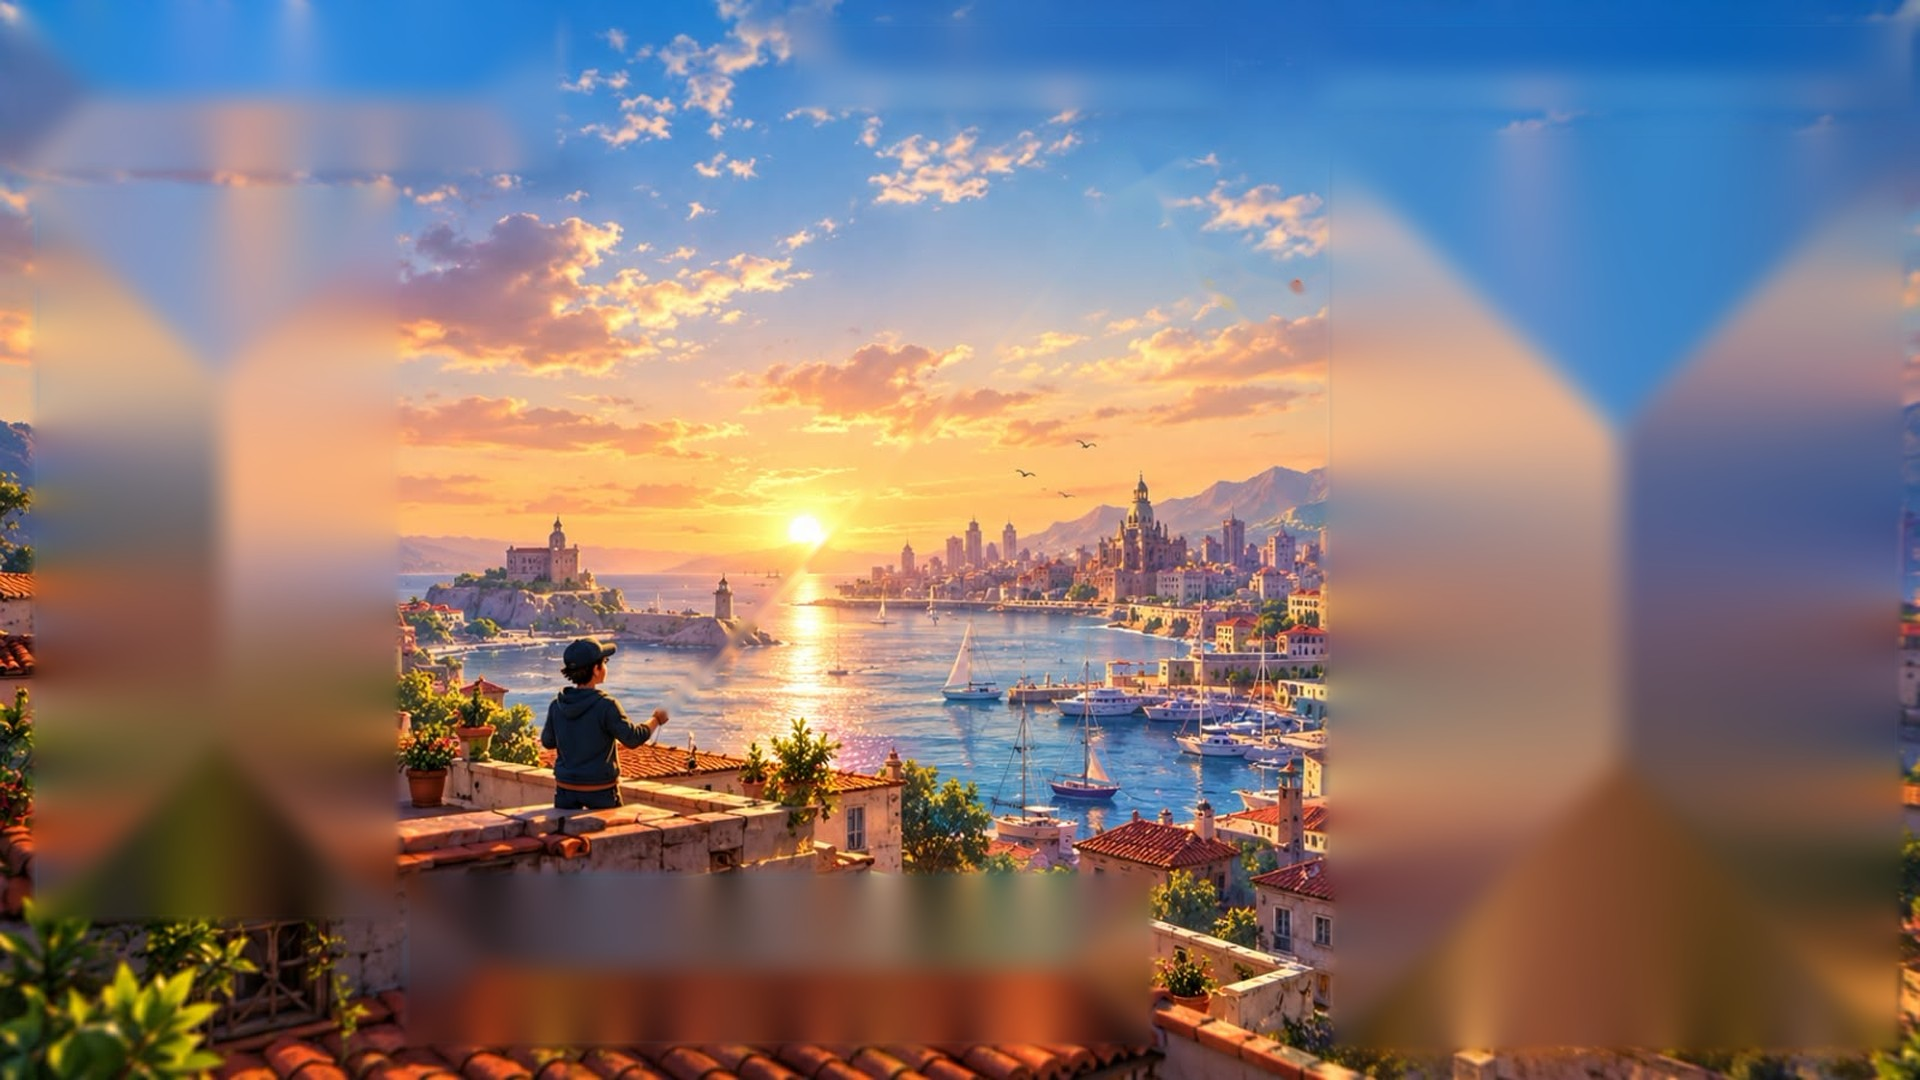
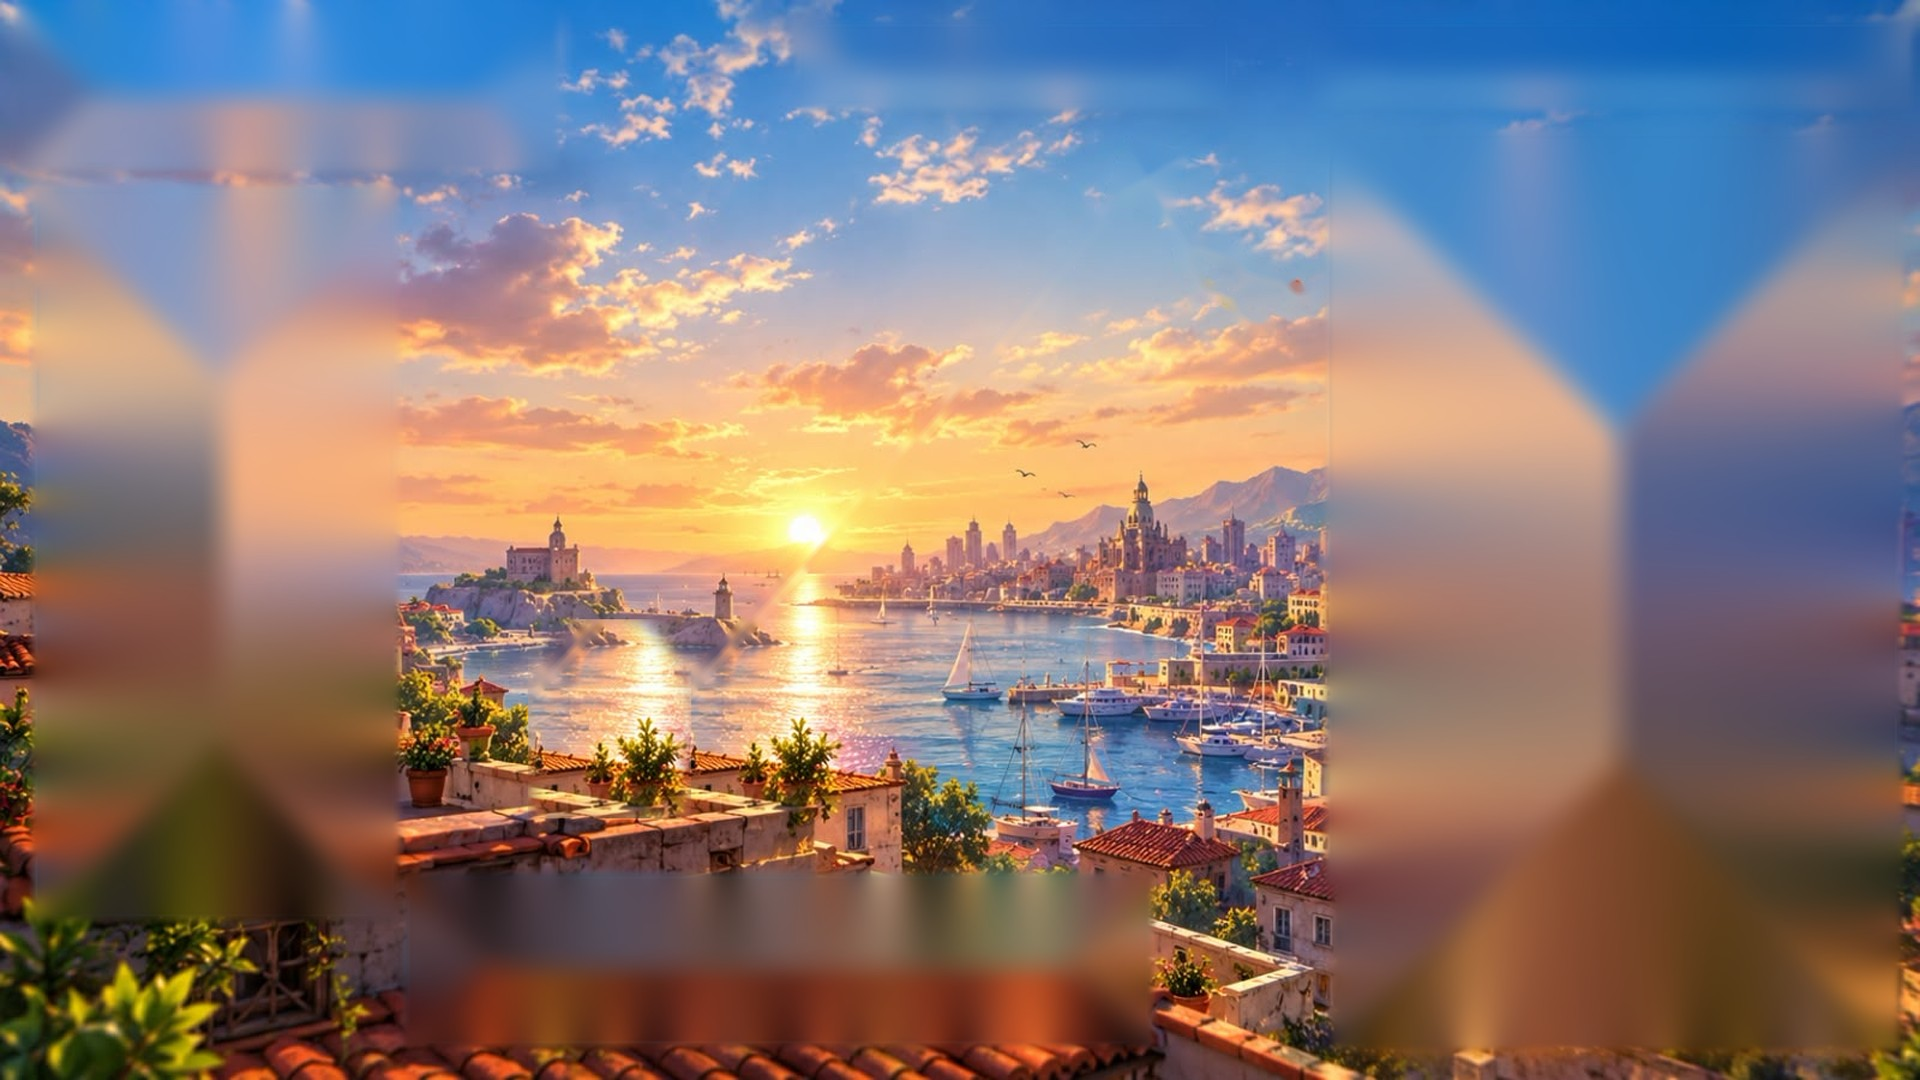
Home: player's own character on the painted picture, painted scene by default
The painted flyer is erased from the home background (patched with the sea and
roof next to it) and HomeCharacterStage films the player's selected character
(outfit, accessories, spool) from behind into a transparent RenderTexture shown
on the rooftop, clipped at the parapet; the kite line now leaves that
character's hand. Old saved settings are upgraded once so the painted home
scene becomes the default. The 3D home camera frames the character left of
centre above the loadout bar. Image Mapper ignores shared slot prefixes (ui,
icon, button, card) when matching names and moves an installed image whose
file name is another slot's exact name back to its own slot.

Claude-Session: https://claude.ai/code/session_01Kft94361aqxz3Q9WMshigR

Changed region(s): [[0.25, 0.55, 0.375, 0.7639]]

diff --git a/Assets/Scripts/Match/HomeCharacterStage.cs b/Assets/Scripts/Match/HomeCharacterStage.cs
@@ -1,0 +1,134 @@
+using Kitefall.App;
+using Kitefall.Core;
+using UnityEngine;
+using UnityEngine.UI;
+
+namespace Kitefall.Match
+{
+    /// <summary>
+    /// The player's own selected character on the painted home picture: the character (with outfit and accessories) stands on a
+    /// hidden stage far below the world, flying an invisible kite, and a small camera films them from behind into a transparent
+    /// RenderTexture. The home screen shows that texture where the painted flyer used to stand, clipped at the parapet, so it
+    /// looks like the player is on the rooftop in the picture. Changes in the wardrobe show up immediately.
+    /// </summary>
+    public sealed class HomeCharacterStage : MonoBehaviour
+    {
+        private static readonly Vector3 Origin = new Vector3(0f, -400f, 0f);
+        private static HomeCharacterStage _instance;
+
+        private Camera _cam;
+        private RenderTexture _rt;
+        private CharacterView _view;
+        private Light _light;
+        private string _key;
+        private float _time;
+        private RawImage _image;
+        private RectTransform _imageRect;
+
+        /// <summary>Where the line leaves the character's hand, in the RawImage's 0..1 space (for the kite line overlay).</summary>
+        public Vector2 HandViewport { get; private set; } = new Vector2(0.75f, 0.62f);
+
+        public static HomeCharacterStage Get()
+        {
+            if (_instance != null) return _instance;
+            var go = new GameObject("HomeCharacterStage");
+            DontDestroyOnLoad(go);
+            _instance = go.AddComponent<HomeCharacterStage>();
+            _instance.Setup();
+            return _instance;
+        }
+
+        private void Setup()
+        {
+            transform.position = Origin;
+            _rt = new RenderTexture(512, 640, 16, RenderTextureFormat.ARGB32) { name = "HomeCharacter", antiAliasing = 2 };
+            var camGo = new GameObject("StageCamera");
+            camGo.transform.SetParent(transform, false);
+            // Behind the flyer, a little to the right, looking at the upper body – the back view of the design.
+            camGo.transform.localPosition = new Vector3(0.55f, 1.45f, -3.1f);
+            camGo.transform.LookAt(Origin + new Vector3(0.05f, 1.25f, 0f));
+            _cam = camGo.AddComponent<Camera>();
+            _cam.clearFlags = CameraClearFlags.SolidColor;
+            _cam.backgroundColor = new Color(0f, 0f, 0f, 0f);
+            _cam.fieldOfView = 30f;
+            _cam.nearClipPlane = 0.1f;
+            _cam.farClipPlane = 20f;
+            _cam.targetTexture = _rt;
+            _cam.allowHDR = false;
+            _cam.allowMSAA = true;
+
+            // Warm low sun from the front-right, like the sunset in the picture (rim light on the character's back).
+            var lightGo = new GameObject("StageLight");
+            lightGo.transform.SetParent(transform, false);
+            lightGo.transform.rotation = Quaternion.Euler(18f, -150f, 0f);
+            _light = lightGo.AddComponent<Light>();
+            _light.type = LightType.Directional;
+            _light.color = new Color(1f, 0.82f, 0.62f);
+            _light.intensity = 1.1f;
+            _light.cullingMask = ~0;
+        }
+
+        /// <summary>Shows the player's current look; rebuilds only when it changed.</summary>
+        public Texture Show(PlayerProfile p)
+        {
+            string character = p?.characterId ?? CharacterCatalog.DefaultCharacter;
+            string outfit = p?.outfitId ?? "";
+            string[] acc = p != null ? p.accessories.ToArray() : new string[4];
+            string kite = p?.loadout.kite ?? "guddi";
+            string charkhi = p?.loadout.charkhi ?? "lakri";
+            string key = character + "|" + outfit + "|" + string.Join(",", acc) + "|" + kite + "|" + charkhi;
+            if (key != _key || _view == null)
+            {
+                _key = key;
+                if (_view != null) Destroy(_view.gameObject);
+                _view = new GameObject("StageCharacter").AddComponent<CharacterView>();
+                _view.transform.SetParent(transform, false);
+                _view.transform.localPosition = Vector3.zero;
+                _view.Init(CharacterBuilder.LookFor(character, outfit, acc, charkhi, kite, ""), "", new Color(0.98f, 0.58f, 0.15f), true, false);
+            }
+            gameObject.SetActive(true);
+            return _rt;
+        }
+
+        /// <summary>The home screen's RawImage; the stage camera only renders while it is on screen.</summary>
+        public void Bind(RawImage image)
+        {
+            _image = image;
+            _imageRect = image != null ? image.rectTransform : null;
+        }
+
+        private void Update()
+        {
+            bool visible = _image != null && _image.isActiveAndEnabled;
+            if (_cam != null) _cam.enabled = visible;
+            if (_light != null) _light.enabled = visible;
+            if (!visible || _view == null) return;
+            float dt = Mathf.Min(Time.unscaledDeltaTime, 0.05f);
+            _time += dt;
+            // The (invisible) kite is up, ahead and to the right – the same place as the kite in the picture.
+            Vector3 kite = Origin + new Vector3(4.5f + Mathf.Sin(_time * 0.55f) * 0.6f, 9f + Mathf.Sin(_time * 1.1f) * 0.5f, 12f);
+            var f = new CharacterFrame
+            {
+                State = FlyerState.Flying,
+                Action = Mathf.Sin(_time * 0.7f) > 0.6f ? LineAction.Pull : LineAction.Idle,
+                Position = Origin,
+                KitePosition = kite,
+                KiteValid = true,
+                WindDirection = 0f,
+                Time = _time
+            };
+            _view.Apply(f, dt);
+            if (_view.LineAnchor != null)
+            {
+                Vector3 vp = _cam.WorldToViewportPoint(_view.LineAnchor.position);
+                HandViewport = new Vector2(vp.x, vp.y);
+            }
+        }
+
+        private void OnDestroy()
+        {
+            if (_rt != null) _rt.Release();
+            if (_instance == this) _instance = null;
+        }
+    }
+}

diff --git a/Assets/Scripts/Editor/ArtMapperWindow.cs b/Assets/Scripts/Editor/ArtMapperWindow.cs
@@ -224,7 +224,9 @@ namespace Kitefall.EditorTools
         private static readonly HashSet<string> Stop = new HashSet<string>
         {
             "png", "jpg", "jpeg", "final", "img", "image", "copy", "new", "the", "a", "of", "and", "with", "kitefall", "mj", "midjourney",
-            "leonardo", "dalle", "sd", "sdxl", "ai", "4k", "hd", "upscaled", "upscale", "edit", "edited", "art", "v1", "v2", "v3", "version"
+            "leonardo", "dalle", "sd", "sdxl", "ai", "4k", "hd", "upscaled", "upscale", "edit", "edited", "art", "v1", "v2", "v3", "version",
+            // Shared slot prefixes say nothing about the picture ("ui_icon_wrench" must never match "ui_icon_coin").
+            "ui", "icon", "button", "card"
         };
 
         private static readonly Dictionary<string, string> Synonyms = new Dictionary<string, string>
@@ -378,6 +380,7 @@ namespace Kitefall.EditorTools
             var w = GetWindow<ArtMapperWindow>("Kitefall Image Mapper");
             w.minSize = new Vector2(760, 480);
             w.Load();
+            int healed = w.FixMisfiled();
             // By-order guesses hold files hostage: let AUTO try those files properly first.
             foreach (string g in new List<string>(w._guess)) w._assigned.Remove(g);
             w._guess.Clear();
@@ -395,6 +398,7 @@ namespace Kitefall.EditorTools
             if (total > 0) w.Install(confirm: false, includeGuesses: false);
             IncomingWatcher.MarkDone();
             w._status = $"AUTO: {total} image(s) installed ({strong} sure matches, {byName} by name, {byNumber} by # number, {byDescription} by picture description, {byShape} as loading screens). " +
+                        (healed > 0 ? $"{healed} wrongly placed image(s) were moved to their own slot. " : "") +
                         (dupes > 0 ? $"{dupes} duplicate copies moved out to the '{DuplicatesFolder}' folder next to Assets. " : "") +
                         "Check with 'Only installed' – press 'Wrong' on any image in the wrong place. " +
                         (left > 0 ? $"{left} image(s) not recognised – their names are listed at the top. Rename them like the Excel 'File name', " +
@@ -771,6 +775,26 @@ namespace Kitefall.EditorTools
             }
             Save();
             return matched;
+        }
+
+        /// <summary>
+        /// Self-repair: an installed image whose original file name is exactly ANOTHER slot's name (e.g. "ui_icon_wrench" sitting
+        /// in currency_coins) goes back to Incoming, so the sure-match pass puts it where it belongs.
+        /// </summary>
+        private int FixMisfiled()
+        {
+            int moved = 0;
+            foreach (ArtSlot s in ArtSlots.All)
+            {
+                if (_manual.Contains(s.Id) || !_installedFrom.TryGetValue(s.Id, out string from)) continue;
+                string stem = Path.GetFileNameWithoutExtension(from);
+                if (stem.Equals(s.Id, StringComparison.OrdinalIgnoreCase) || !ArtSlots.TryGet(stem, out ArtSlot owner) || owner.Id == s.Id) continue;
+                if (!owner.Id.Equals(stem, StringComparison.OrdinalIgnoreCase)) continue; // prefix lookups don't count
+                string path = InstalledPath(s);
+                if (path != null && ReturnToIncoming(s, path, block: true)) moved++;
+            }
+            if (moved > 0) { AssetDatabase.Refresh(); Save(); }
+            return moved;
         }
 
         /// <summary>"Wrong" button: the installed image goes back to Incoming under its original name and never returns to this slot.</summary>

diff --git a/Assets/Scripts/UI/Screens/HomeScreen.cs b/Assets/Scripts/UI/Screens/HomeScreen.cs
@@ -35,7 +35,12 @@ namespace Kitefall.UI.Screens
 
             // Painted home picture from the owner's design, brought to life by HomeAnimator (Settings ▸ Home scene).
             Sprite painted = Painted ? Art.Sprite("home_background") : null;
-            if (painted != null) HomeAnimator.Attach(MenuScreen.ArtBackground(Root, painted).rectTransform, Art.Sprite("home_kite"));
+            if (painted != null)
+            {
+                RectTransform picture = MenuScreen.ArtBackground(Root, painted).rectTransform;
+                HomeAnimator anim = HomeAnimator.Attach(picture, Art.Sprite("home_kite"));
+                PlaceOwnCharacter(picture, anim, p);
+            }
 
             // Soft shade on the left so the menu reads over a bright sky.
             Image left = UiKit.Image(Root, new Color(0.02f, 0.05f, 0.12f, 0.28f), Sprites.White, "LeftShade");
@@ -58,6 +63,35 @@ namespace Kitefall.UI.Screens
         private bool _built, _playingIntro;
         private readonly System.Collections.Generic.List<(Component, Vector2, float)> _intro = new System.Collections.Generic.List<(Component, Vector2, float)>();
         private void Intro(Component c, Vector2 from, float delay) => _intro.Add((c, from, delay));
+
+        // Where the painted flyer stood (1600×900 design): the player's own character is shown there instead.
+        private const float WallV = 1f - 672f / 900f;                  // top of the parapet – the character is clipped below it
+        private static readonly Rect CharacterBox = new Rect(0.3203f - 0.078f, 0.3128f - 0.174f, 0.156f, 0.348f); // u, v, w, h
+
+        /// <summary>The selected character (wardrobe look) on the rooftop of the painted picture, with the kite line from their hand.</summary>
+        private static void PlaceOwnCharacter(RectTransform picture, HomeAnimator anim, PlayerProfile p)
+        {
+            HomeCharacterStage stage = HomeCharacterStage.Get();
+            Texture tex = stage.Show(p);
+            RectTransform clip = UiKit.Rect("CharacterClip", picture);
+            clip.anchorMin = new Vector2(0f, WallV);
+            clip.anchorMax = Vector2.one;
+            clip.offsetMin = clip.offsetMax = Vector2.zero;
+            clip.gameObject.AddComponent<RectMask2D>();
+            var go = new GameObject("OwnCharacter", typeof(RectTransform));
+            go.transform.SetParent(clip, false);
+            var raw = go.AddComponent<RawImage>();
+            raw.texture = tex;
+            raw.raycastTarget = false;
+            RectTransform rt = raw.rectTransform;
+            float span = 1f - WallV;
+            rt.anchorMin = new Vector2(CharacterBox.xMin, (CharacterBox.yMin - WallV) / span);
+            rt.anchorMax = new Vector2(CharacterBox.xMax, (CharacterBox.yMax - WallV) / span);
+            rt.offsetMin = rt.offsetMax = Vector2.zero;
+            stage.Bind(raw);
+            anim.HandUV = () => new Vector2(CharacterBox.xMin + stage.HandViewport.x * CharacterBox.width,
+                                            CharacterBox.yMin + stage.HandViewport.y * CharacterBox.height);
+        }
 
         /// <summary>Painted design picture as the home background (default) instead of the live 3D scene.</summary>
         private static bool Painted => (Game.Settings == null || Game.Settings.Data.homeTheme == 2) && Art.Has("home_background");

diff --git a/Tools/ArtList/make_home_kit.py b/Tools/ArtList/make_home_kit.py
@@ -119,6 +119,9 @@ cv2.polylines(mask,[pts],False,255,13)   # kite line from the flyer's hand
 # but the small kite + line areas with a fine inpaint so the open sky stays clean.
 fine=np.zeros_like(mask); fine[0:300,880:1130]=kite_mask[0:300,880:1130]
 cv2.polylines(fine,[pts],False,255,13)
+# The painted flyer is replaced in game by the player's own 3D character (HomeCharacterStage): erase it.
+boy=np.zeros_like(mask); cv2.ellipse(boy,(506,600),(64,80),0,0,360,255,-1); cv2.rectangle(boy,(446,560),(570,678),255,-1)
+fine|=boy; mask|=boy
 bg=cv2.inpaint(img,fine,5,cv2.INPAINT_TELEA)
 small=cv2.resize(bg,(W//8,H//8),interpolation=cv2.INTER_AREA)
 msmall=cv2.resize(mask,(W//8,H//8),interpolation=cv2.INTER_NEAREST)
@@ -127,6 +130,12 @@ big=cv2.GaussianBlur(cv2.resize(small,(W,H),interpolation=cv2.INTER_CUBIC),(0,0)
 coarse=mask.copy(); coarse[fine>0]=0
 f=cv2.GaussianBlur(coarse,(0,0),3).astype(np.float32)[...,None]/255.0
 bg=(bg*(1-f)+big*f).astype(np.uint8)
+# Fill the erased flyer with the sea / roof tiles just to his right (a real texture instead of a smear), feathered in.
+sx,sy,sw,sh,shift=440,516,136,166,128
+patch=bg[sy:sy+sh,sx+shift:sx+shift+sw].copy()
+feather=np.zeros((H,W),np.float32); cv2.ellipse(feather,(506,598),(70,86),0,0,360,1.0,-1); cv2.rectangle(feather,(444,566),(572,680),1.0,-1)
+feather=cv2.GaussianBlur(feather,(0,0),6)[sy:sy+sh,sx:sx+sw,None]
+bg[sy:sy+sh,sx:sx+sw]=(bg[sy:sy+sh,sx:sx+sw]*(1-feather)+patch*feather).astype(np.uint8)
 bg=cv2.resize(bg,(1920,1080),interpolation=cv2.INTER_CUBIC)
 cv2.imwrite(f'{OUT}/home_background.jpg',bg,[cv2.IMWRITE_JPEG_QUALITY,90])
 print('ok')

diff --git a/Assets/Scripts/Services/SettingsService.cs b/Assets/Scripts/Services/SettingsService.cs
@@ -59,6 +59,8 @@ namespace Kitefall.Services
         public int kiteWords;
         /// <summary>Home screen scene: 2 = painted design picture (animated, default), 0 = 3D world harbour, 1 = 3D old city rooftops.</summary>
         public int homeTheme = 2;
+        /// <summary>Settings format version (2 = painted home picture became the default).</summary>
+        public int version = 2;
         /// <summary>Win/lose animation on round end (upgrade F6).</summary>
         public bool autoEmotes = true;
         public bool quickChat = true;
@@ -84,7 +86,18 @@ namespace Kitefall.Services
             try
             {
                 string json = PlayerPrefs.GetString(Key, "");
-                if (!string.IsNullOrEmpty(json)) Data = JsonUtility.FromJson<SettingsData>(json) ?? new SettingsData();
+                if (!string.IsNullOrEmpty(json))
+                {
+                    // Older saves have no "version" field: start them at 0 so the upgrade below runs once.
+                    if (!json.Contains("\"version\"")) json = json.TrimEnd().TrimEnd('}') + ",\"version\":0}";
+                    Data = JsonUtility.FromJson<SettingsData>(json) ?? new SettingsData();
+                }
+                if (Data.version < 2)
+                {
+                    Data.homeTheme = 2; // the owner's painted home design is the default home scene from now on
+                    Data.version = 2;
+                    PlayerPrefs.SetString(Key, JsonUtility.ToJson(Data));
+                }
             }
             catch (Exception e)
             {

diff --git a/Assets/Scripts/UI/HomeAnimator.cs b/Assets/Scripts/UI/HomeAnimator.cs
@@ -26,6 +26,9 @@ namespace Kitefall.UI
         private readonly List<float> _sparklePhase = new List<float>();
         private float _birdTimer;
 
+        /// <summary>Hand position in picture 0..1 coordinates (the player's own character); null = the painted flyer's hand.</summary>
+        public System.Func<Vector2> HandUV;
+
         public static HomeAnimator Attach(RectTransform picture, Sprite kiteSprite)
         {
             var a = picture.gameObject.AddComponent<HomeAnimator>();
@@ -157,7 +160,7 @@ namespace Kitefall.UI
                 Vector2 kiteLocal = new Vector2((KiteAttach.x - 0.5f) * _kite.rect.width, (KiteAttach.y - 0.5f) * _kite.rect.height);
                 Vector3 world = _kite.TransformPoint(kiteLocal);
                 Vector2 end = (Vector2)_rect.InverseTransformPoint(world) + _rect.rect.size * _rect.pivot; // to bottom-left origin
-                Vector2 start = Vector2.Scale(Hand, size);
+                Vector2 start = Vector2.Scale(HandUV != null ? HandUV() : Hand, size);
                 Vector2 d = end - start;
                 _line.anchoredPosition = start;
                 _line.sizeDelta = new Vector2(d.magnitude, Mathf.Max(1.5f, size.y * 0.0022f));

diff --git a/Assets/Scripts/Match/MatchCamera.cs b/Assets/Scripts/Match/MatchCamera.cs
@@ -154,8 +154,10 @@ namespace Kitefall.Match
                 }
                 case CameraMode.HomeShot:
                     // Home design: behind and right of the flyer, looking past them at the kite and the sky (flyer sits left of centre).
-                    pos = Anchor + new Vector3(3.2f, 2.4f, -7.5f);
-                    look = Vector3.Lerp(Anchor + new Vector3(0f, 6f, 30f), target, 0.25f);
+                    // Close behind the character at head height so they stand left of centre, above the loadout bar,
+                    // with the kite high up on the right (matches the painted design's composition).
+                    pos = Anchor + new Vector3(1.2f, 0.25f, -5.5f);
+                    look = Vector3.Lerp(Anchor + new Vector3(0f, -0.3f, 0f), target, 0.3f);
                     return;
                 case CameraMode.Launch:
                     pos = Anchor + new Vector3(0f, 3.5f, -9f);
